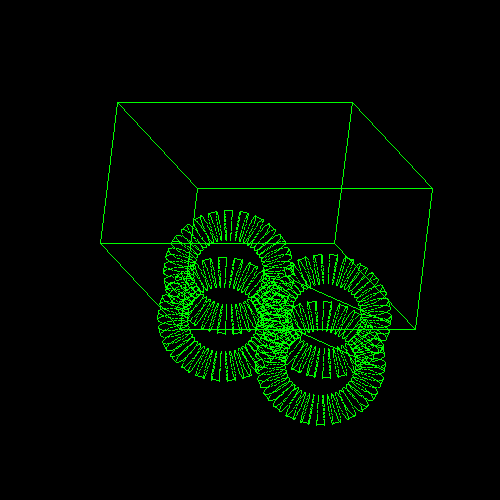
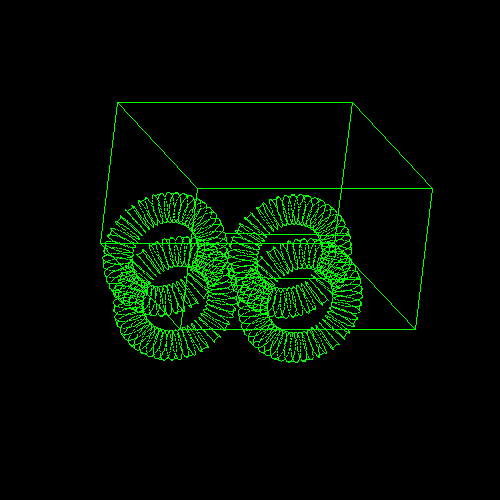
done

Changed region(s): [[0.21, 0.39, 0.78, 0.84]]

diff --git a/main.py b/main.py
@@ -19,5 +19,5 @@ transform = new_matrix()
 # print
 # print_matrix( make_rotZ(math.pi/4) )
 
-#parse_file( 'script', edges, transform, screen, color )
+parse_file( 'script', edges, transform, screen, color )
 parse_file( 'myscript', edges, transform, screen, color )
